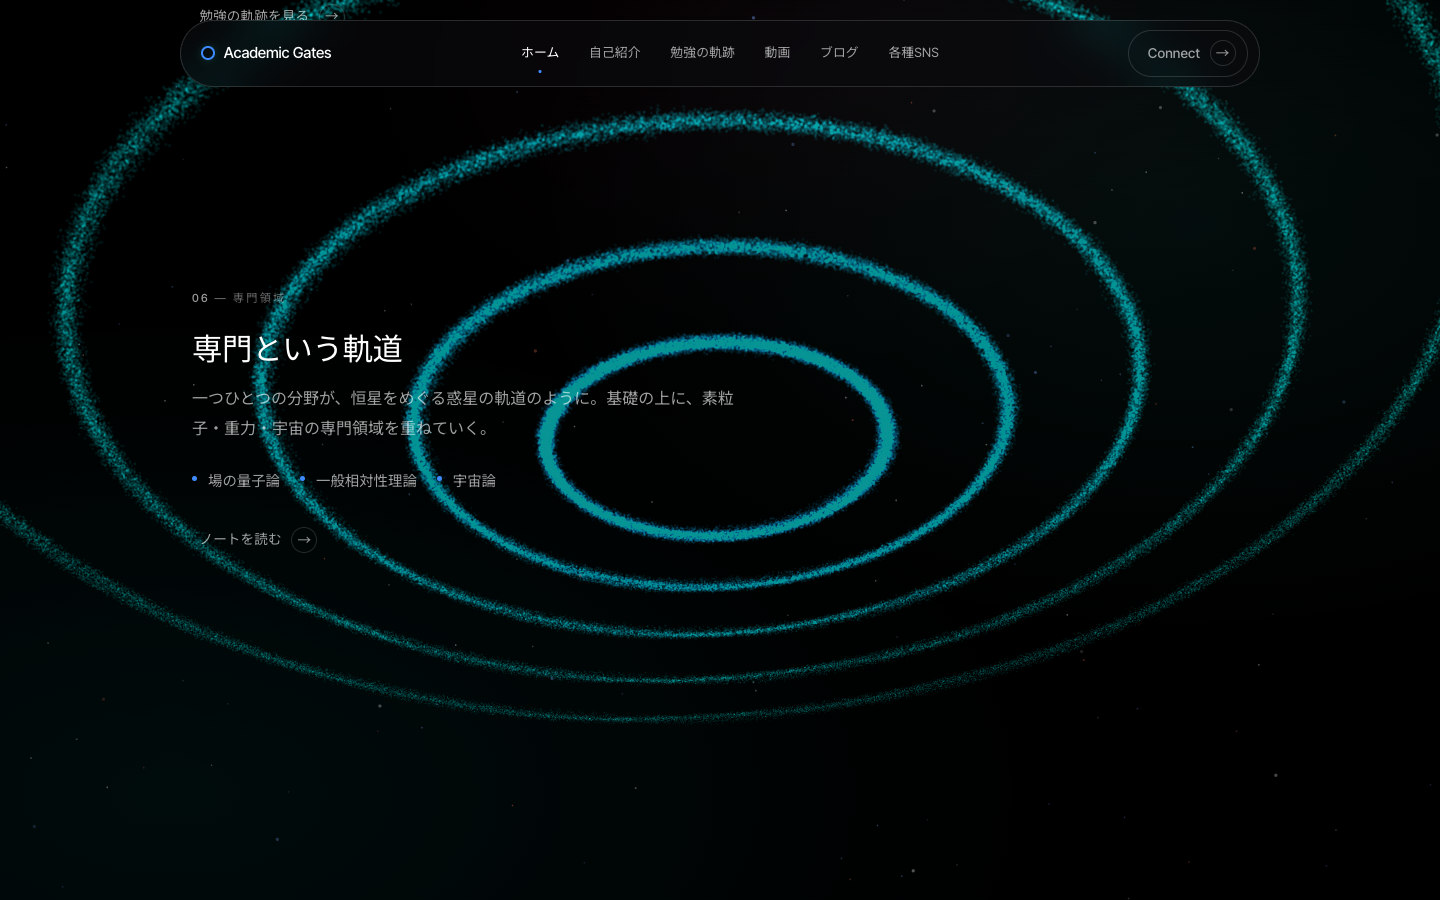
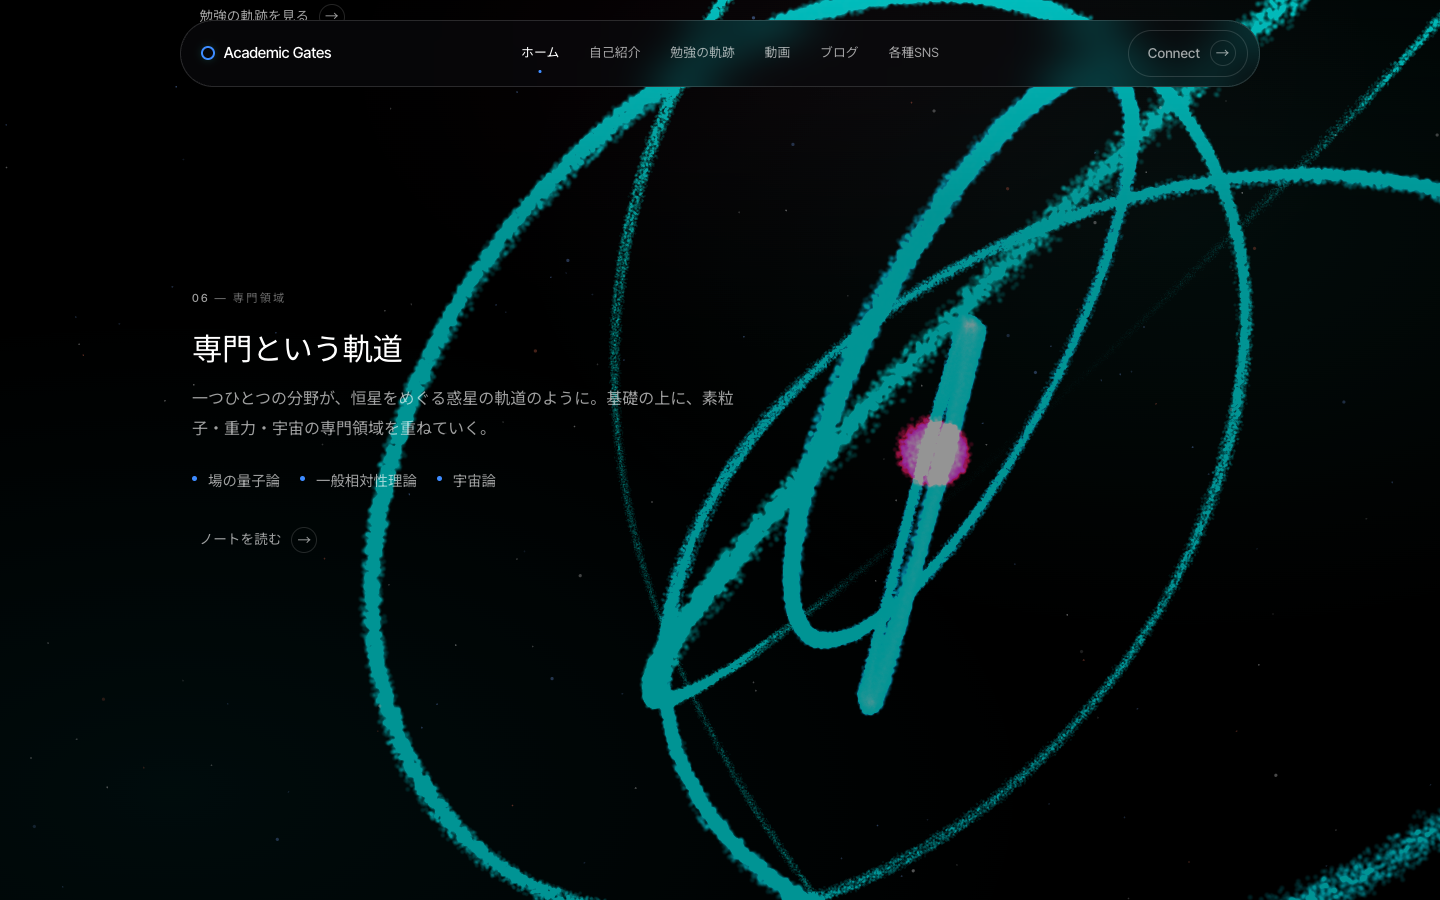
Docs: stage 06 orbits 3D redesign + measurements, updated still
Claude-Session: https://claude.ai/code/session_01QN4mE29Q2zCvePyqL76fR7

diff --git a/Academic-Gate_hp/DESIGN.md b/Academic-Gate_hp/DESIGN.md
@@ -1141,3 +1141,22 @@ to track** against the dense particle field. A numerically-verifiable rotation c
 higher-contrast banding/filaments, which costs the soft volumetric quality — **this trade was
 offered and declined** (the metric exists to protect the design, not the reverse). No further
 work on the sphere; the 3D read stands on visual + constructional evidence.
+
+## 15.13 Stage 06 orbits — three-dimensional (Round-13 follow-up)
+
+Was coplanar nested ellipses on a tilted disc (read flat). Rebuilt:
+- **Each ring in its own plane** — distinct inclination (15–55°) + longitude of ascending node
+  + eccentricity, so rings **visibly cross** (one in front, then behind). *3D verified by the
+  two-frame spin test — which works here (unlike the sphere) because rings are trackable
+  features:* patches on different rings displaced **(0, 23, 16, 12) px in different directions**
+  under one 0.12-rad rotation.
+- **Depth via a hard near/far ramp** (additive gives no occlusion): near arc brighter + points
+  larger, far arc dimmer + smaller — ramp pushed much harder for this motif only
+  (`nearRamp = mix(…, 0.1+1.65·vNear, orbW)`, size `+orbW·1.35`), overall still calm register.
+- **Star at the common FOCUS** (not centre) — small, tight, warm (magenta/ember, core-only); the
+  ellipses are eccentric with periapsis nearer the star, adding perspective asymmetry.
+- System offset +0.55S right so the dense rings clear the left text column; contrast re-sampled
+  under the glyph boxes: **heading 18.1:1, body 17.8:1** (was 12/14 before the offset).
+- The "vertical rule" by the ノートを読む CTA was a **field coincidence** (an orbit-ring edge),
+  not a CSS element (btn-secondary has a transparent border; the only `.btn::before` is an
+  invisible hover glow) — gone with the redesign.
